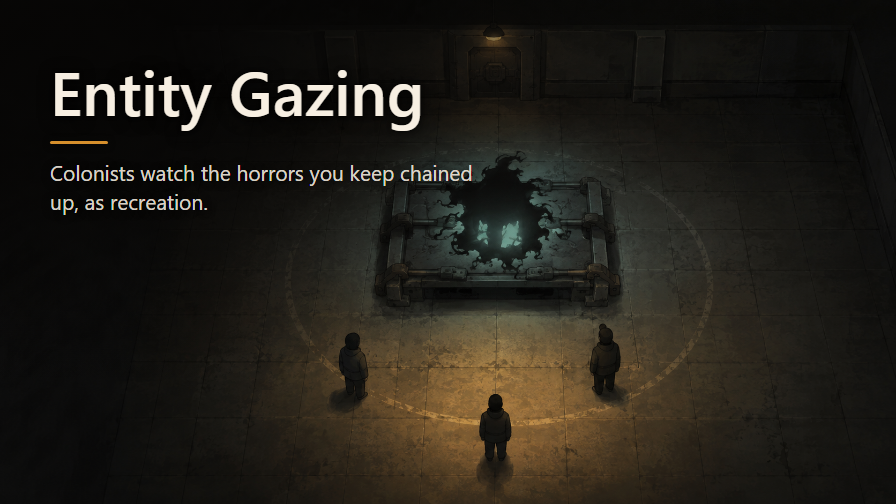
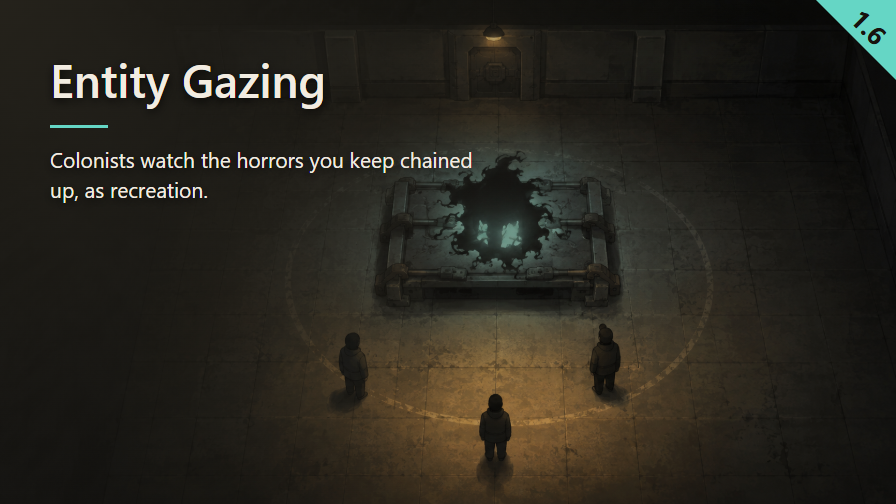
Refresh preview overlay and document standalone mod audit

diff --git a/Art/preview-overlay.html b/Art/preview-overlay.html
@@ -1,0 +1,34 @@
+<!doctype html>
+<html lang="en"><meta charset="utf-8"><title>Entity Gazing Preview</title>
+<style>
+* { box-sizing:border-box; margin:0; padding:0; }
+html,body { width:896px; height:504px; overflow:hidden; }
+body { font-family:"Segoe UI",system-ui,sans-serif; }
+.scene,.veil { position:absolute; inset:0; width:896px; height:504px; }
+.scene { object-fit:cover; }
+.veil { background:radial-gradient(circle at 0% 0%,rgb(var(--veilRGB) / .86) 0%,rgb(var(--veilRGB) / 0) 74%); }
+.copy { position:absolute; left:50px; top:54px; color:var(--inkPrimary); text-shadow:0 3px 10px rgba(0,0,0,.75); }
+h1 { font-size:46px; font-weight:600; line-height:1.1; letter-spacing:0; }
+h1 .secondary { font-size:.65em; color:var(--inkSecondary); }
+h1 .link { font-size:.65em; }
+.tag { font-size:24px; font-weight:400; line-height:1.1; letter-spacing:.2px; margin-top:8px; color:var(--inkSecondary); }
+.rule { width:58px; height:3px; background:var(--accent); margin-top:20px; margin-bottom:16px; }
+p { width:430px; font-size:21px; font-weight:400; line-height:1.45; letter-spacing:0; }
+.badge { position:absolute; right:0; top:0; width:80px; height:80px; background:var(--accent); clip-path:polygon(0 0,100% 0,100% 100%); }
+.version { position:absolute; left:869px; top:27px; transform:translate(-50%,-50%) rotate(45deg); font-size:26px; font-weight:700; line-height:1; color:var(--badgeInk); }
+</style>
+<img class="scene" src="Preview.png" alt=""><div class="veil"></div>
+<main class="copy"><h1>Entity Gazing</h1><div class="rule"></div><p>Colonists watch the horrors you keep chained up, as recreation.</p></main>
+<div class="badge"></div><div class="version"></div>
+<script>
+window.previewReady=(async()=>{
+ const palette=await (await fetch('preview-palette.json')).json();
+ for(const [k,v] of Object.entries(palette)) document.documentElement.style.setProperty('--'+k,v);
+ document.documentElement.style.setProperty('--veilRGB',palette.veil.slice(1).match(/../g).map(x=>parseInt(x,16)).join(' '));
+ const xml=new DOMParser().parseFromString(await (await fetch('../Mod/About/About.xml')).text(),'application/xml');
+ const versions=[...xml.querySelectorAll('supportedVersions li')].map(x=>x.textContent.trim()).filter(x=>/^\d+\.\d+$/.test(x)).sort((a,b)=>{const aa=a.split('.').map(Number),bb=b.split('.').map(Number);return bb[0]-aa[0]||bb[1]-aa[1]});
+ if(!versions.length) throw Error('No stable supported version');
+ document.querySelector('.version').textContent=versions[0];
+ await document.fonts.ready; await document.querySelector('.scene').decode();
+})();
+</script></html>

diff --git a/STATUS.md b/STATUS.md
@@ -2,58 +2,110 @@
 mod:          Entity Gazing
 packageId:    nelim.entitygazing
 repo:         Rimworld-Entity-Gazing
+remote:       https://github.com/vbardales/Rimworld-Entity-Gazing.git
+local_path:   C:\Users\nelim\Documents\rimworld\EntityGazing
 visibility:   public
 detached:     yes
 stage:        done
 licence:      original
-licence_at:   MIT, LICENSE at the root; no ATTRIBUTION, nothing is reused
+licence_at:   MIT in root LICENSE; original mod, no third-party mod source or assets identified
 dependencies: declared
 showcase:     complete
 tested_on:
 workshop:
 remaining:
-  - unverified: never seen running in a colony; the fourteen scenarios of TESTING.md, none played
-  - unverified: never uploaded to the Workshop, so the showcase has never been seen in place
-session:      local_2c8cbd89-28f1-4b1a-9830-51a1cae086d3
-updated:      2026-09-12, mod session
+  - unverified: all fourteen manual scenarios in TESTING.md await execution in a running colony
+  - unverified: Workshop upload and in-place showcase have not been verified
+session:      Codex, maintainer of this standalone local repository
+updated:      2026-09-13
 ---
 
 # Entity Gazing — status
 
-One card per mod, read by a sweep across the whole repository rather than by asking each thread in
-turn. It lives at the root, never inside `Mod/`, so Steam never receives it.
+Codex maintains this file for this mod and updates it after changes, checks and reported in-game
+results. It stays at the repository root, outside the published `Mod/` directory.
 
-This card is maintained by the session that holds this mod, and the fields above were confirmed
-against the disk rather than inferred. What each one says today:
+## Repository and publication
 
-- **`stage: done`** — written, documented, and checked as far as it can be without the game.
-  Fifty-six tests in two suites under `_tools/` all pass, and a mutation campaign has watched each
-  of them fail. The next stage is `tested`, and only a colony can grant it.
-- **`tested_on:`** — empty, and honestly so. Nothing here has been watched happening in play.
-- **`showcase: complete`** — preview at 896 by 504 and icon at 128 square, both within weight, with
-  the full-resolution originals under `Art/`. The prompt kept for regenerating them is
-  `PROMPT_ENTITYGAZING.md`, at the monorepo root, outside git as all of those are.
-- **`licence: original`** — the mod reuses nothing. MIT, and no `ATTRIBUTION.md` because there is
-  nobody to attribute but Ludeon, which the README does.
+- Git root and Git directory are local to `C:\Users\nelim\Documents\rimworld\EntityGazing`.
+  This is a standalone repository, not the parent monorepo or a submodule.
+- GitHub visibility was checked with `gh repo view` on 2026-09-12: **PUBLIC**.
+  This describes the repository; no Workshop publication is recorded.
+- Mod name: **Entity Gazing**. No suffix is needed: this is an original creation, not a
+  continuation or private extraction. The existing name test enforces that convention.
+- Both the `url` field and the description in `Mod/About/About.xml` link to
+  https://github.com/vbardales/Rimworld-Entity-Gazing.
+- Dependency: Anomaly, explicitly declared in `modDependencies`.
 
-## When to change it
+## Licence and provenance
 
-- After a session in a colony: set `tested_on`, and turn the first `unverified` line into what
-  actually happened. If something broke, it becomes a `defect` line rather than disappearing.
-- After a Workshop upload: fill `workshop` with the item id, drop the second `unverified` line, and
-  remember that the description and the `packageId` freeze at that moment.
-- After any change to the mod: the two suites are the check, and `remaining` is where anything they
-  cannot see goes.
+The mod is released under **MIT**, as stated in `LICENSE`, README and About description.
+The provenance category is **`original`**: the local source implements its own small subclass
+of vanilla RimWorld logic; no source or assets from another mod were identified in this audit.
+Ludeon is credited in README. This is based on repository evidence, not an exhaustive external
+provenance investigation.
 
-`remaining` takes three kinds of line: `feature` for something missing from a first release,
-`defect` for a known fault left unfixed, `unverified` for what could not be checked.
+The classification distinguishes `original` (own creation), `open` (reuse from an explicitly
+licensed source), `silent` (reuse from a source without explicit permission), and `forbidden`
+(reuse explicitly refused). MIT is the licence granted for this mod; `original` describes its
+provenance. Neither `silent` nor `forbidden` applies to the evidence here.
 
-`licence` vocabulary: `open` an explicit licence, `silent` no licence and a dead source,
-`alive` no licence but a living source, `forbidden` a written refusal, `original` owing nothing
-to anyone — not a name, not an idea traceable to one mod, not a value derived from its assets.
+## Verification on 2026-09-12
 
-- **`dependencies`** — `declared` when every mod this one needs is named in the About's
-  `modDependencies`, `to check` when a non-vanilla `loadAfter` suggests a dependency that is not
-  declared, `none` when the mod needs nothing. An undeclared dependency is not cosmetic: on
-  2026-09-11 Reequilibrage animaux took 47 vanilla animals down with it, Muffalo included, because
-  the class it injects belongs to a mod that was not declared and not loaded.
+- `_tools/Run-Tests.ps1`: **23 passed, 0 failed**.
+- `_tools/Run-Functional-Tests.ps1`: **35 passed, 0 failed**.
+- Total: **58 automated checks passed**, against the installed RimWorld assemblies and data.
+  These cover structure, compatibility and integration outside a running game; they do not
+  simulate a colony or directly establish every gameplay outcome.
+- XML: all five shipped files parse; def fields, references, patch classes, DLC guards and
+  French translation keys are checked. The actual game patch engine applies the shipped patch
+  to Anomaly defs; both holders retain their settings without duplicate structural nodes.
+- C#: inheritance, override slot, method signature and compilation against the real game
+  assembly are checked, together with the vanilla readers of the configured fields.
+- `TESTING.md`: **14 manual functional scenarios**, with setup and pass criteria, covering DLC
+  on/off, patch effects, recreation, empty/dead entities, pain, capacity, access, sight,
+  opportunistic use, saves, both holders and same-room restrictions. **Not executed in game**.
+- `_tools/Run-Mutations.ps1`: 34 mutation cases exist. The earlier documentation reports a
+  successful campaign; it was not rerun in this audit. It does not prove all 58 checks have been
+  observed failing; the suite footers explain the limits.
+- Corrected About description from four to five building-based recreation types, matching
+  the installed-game check. The metadata test now also checks the description's GitHub link.
+- Preview and icon dimensions and size limits pass. Full-resolution sources are under `Art/`.
+  The formerly referenced monorepo image prompt is not present in this repository.
+
+## Maintenance rules
+
+After a mod change, run both suites and update this card with results and remaining defects.
+After actual colony testing, record version/date and scenario results in `TESTING.md`, fill
+`tested_on` here, and only then advance to `tested` when appropriate. After Workshop publication,
+record the item ID and verification result. Never turn an unexecuted check into a pass.
+
+`remaining` uses `feature` for missing functionality, `defect` for a known issue, and `unverified`
+for checks still awaiting evidence.
+
+## Preview overlay — 2026-09-13
+
+- Final shipped image: `Mod/About/Preview.png`, 896 x 504, 551129 bytes (538.2 KiB).
+- Illustration retained unchanged: `Art/Preview-source.png`, copied byte-for-byte to
+  `Art/Preview.png` as the canonical text-free source. No replacement or regeneration.
+- Composition: `Art/preview-overlay.html`; reproducible renderer: `Art/render-preview.cjs`
+  (Node with playwright and sharp, installed Chrome). Layout parameters remain in the CSS.
+- Single palette source: `Art/preview-palette.json`, loaded by the HTML.
+  The veil follows the dark stone floor's warm brown-olive material. The secondary ink extends
+  the dominant ochre family of the floor and lamp pool, lightened for the dark background.
+  The accent comes from the entity's turquoise glow, strengthened in saturation and lightness;
+  its cool cyan-green hue contrasts with the dominant warm ochre rather than repeating it.
+- Exact existing title and summary retained. No status tag or reduced title words apply to
+  this original public mod. The badge reads the highest stable supported version from the
+  shipped About.xml: 1.6. Triangle and rotated digits use the guide's coordinates.
+- Actual browser fonts verified through Chrome platform-font inspection: Segoe UI Semibold
+  for the title, Segoe UI Regular for the summary, Segoe UI Bold for the badge; no fallback.
+  Capture waits for `document.fonts.ready` and the source image to decode.
+- QA evidence: `Art/preview-qa.json`, `Art/preview-background.png` (text hidden), and
+  `Art/preview-268.png`. Contrast was checked against every background pixel in the title
+  and summary rectangles, a stricter area than the glyphs or four corners alone.
+  Minimum ratios: title 11.18:1, summary 5.27:1, badge 10.61:1. Tag not applicable.
+- Visually reviewed at 896 x 504 and 268 px wide: no clipping or overlap; title and version
+  identifiable; rule visible; warm secondary and cool accent distinct in the saved palette.
+  The secondary is intentionally unused in this title, since it has no affix or status tag.
+- Both mod test suites rerun: 23 form and 35 functional checks pass. No publication performed.
